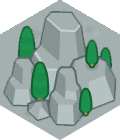
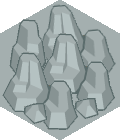
map preview

diff --git a/resources/tsx/landmark_depot.tsx b/resources/tsx/landmark_depot.tsx
@@ -1,4 +1,4 @@
 <?xml version="1.0" encoding="UTF-8"?>
 <tileset version="1.4" tiledversion="1.4.3" name="landmark_depot" tilewidth="120" tileheight="140" tilecount="1" columns="1">
- <image source="../landmark/depot.png" width="120" height="140"/>
+ <image source="../landmark/supply.png" width="120" height="140"/>
 </tileset>

diff --git a/src/map_generate_preview.py b/src/map_generate_preview.py
@@ -1,0 +1,151 @@
+from os import listdir, path
+from json import load
+from inquirer import List, prompt
+from PIL import Image, ImageFont, ImageDraw
+
+BASE_DIR = path.dirname(path.abspath(__file__))
+ROOT_DIR = path.abspath(path.join(BASE_DIR, ".."))
+MAPS_DIR = path.join(ROOT_DIR, "maps")
+MAPS_DATA_DIR = path.join(ROOT_DIR, "maps_data")
+RESOURCES_DIR = path.join(ROOT_DIR, "resources")
+
+
+class MapPreview:
+
+    def __init__(self, map_id, day):
+        self.map_id = map_id
+        self.day = day
+
+        self.hexagons = []
+        self.cities = []
+
+        self.hexagon_w = 0
+        self.hexagon_h = 0
+        self.pixel_w = 0
+        self.pixel_h = 0
+
+        self.images = {"terrain": {}, "landmark": {}, "river": []}
+
+        self.river_map = [
+            [False, False, False, False, False, False],
+            [True, False, False, False, False, False],
+            [False, True, False, False, False, False],
+            [False, False, True, False, False, False],
+            [True, True, False, False, False, False],
+            [True, False, True, False, False, False],
+            [False, True, True, False, False, False],
+            [True, True, True, False, False, False],
+        ]
+
+    def load_terrain_images(self):
+        for image_filename in listdir(path.join(RESOURCES_DIR, "terrain")):
+            image = Image.open(
+                path.join(RESOURCES_DIR, "terrain", image_filename)
+            ).convert("RGBA")
+            key = image_filename[:-4]
+            self.images["terrain"][key] = image
+
+        for image_filename in listdir(path.join(RESOURCES_DIR, "landmark")):
+            image = Image.open(
+                path.join(RESOURCES_DIR, "landmark", image_filename)
+            ).convert("RGBA")
+            key = image_filename[:-4]
+            self.images["landmark"][key] = image
+
+        for image_filename in listdir(path.join(RESOURCES_DIR, "river")):
+            image = Image.open(
+                path.join(RESOURCES_DIR, "river", image_filename)
+            ).convert("RGBA")
+            self.images["river"].append(image)
+
+    def load_map_data(self):
+        with open(f"{MAPS_DIR}/{self.map_id}.json", "r") as file:
+            data = load(file)
+        self.hexagons = data["hexagons"]
+        self.cities = data["landmarks"]["city"]
+        self.hexagon_w = data["metadata"]["width"]
+        self.hexagon_h = data["metadata"]["height"]
+        self.pixel_w = self.hexagon_w * 120 + 60
+        self.pixel_h = self.hexagon_h * 107 + 33
+
+    def generate_preview(self):
+
+        canvas = Image.new("RGBA", (self.pixel_w, self.pixel_h), (0, 0, 0, 0))
+
+        draw = ImageDraw.Draw(canvas)
+
+        font = ImageFont.truetype("arial.ttf", 40)
+
+        for hexagon in self.hexagons:
+            ix = hexagon["x"]
+            iy = hexagon["y"]
+            terrain = hexagon["terrain"]
+            landmark = hexagon["landmark"]
+            river = hexagon["river"]
+
+            px = ix * 120 + (iy % 2) * 60
+            py = iy * 107
+
+            river_index = 0
+
+            for i in range(8):
+                if not all(x == y for x, y in zip(river, self.river_map[i])):
+                    continue
+                river_index = i
+                break
+
+            canvas.paste(
+                self.images["terrain"][terrain],
+                (px, py),
+                self.images["terrain"][terrain],
+            )
+
+            if landmark != "default":
+                canvas.paste(
+                    self.images["landmark"][landmark],
+                    (px, py),
+                    self.images["landmark"][landmark],
+                )
+
+            if river_index > 0:
+                canvas.paste(
+                    self.images["river"][river_index],
+                    (px, py),
+                    self.images["river"][river_index],
+                )
+
+        for city in self.cities:
+            ix = city["x"]
+            iy = city["y"]
+            name = city["name"]
+
+            bbox = draw.textbbox((0, 0), name, font=font)
+            text_w = bbox[2] - bbox[0]
+            text_h = bbox[3] - bbox[1]
+
+            px = ix * 120 + (iy % 2) * 60 + 60 - text_w // 2
+            py = iy * 107
+
+            draw.rectangle(
+                (px, py + 80, px + text_w, py + 80 + text_h + 10),
+                fill=(0, 0, 0, 255),
+            )
+            draw.text((px, py + 80), name, fill=(255, 255, 255, 255), font=font)
+
+        canvas.save(path.join(MAPS_DATA_DIR, self.map_id, "preview.png"))
+
+
+def run():
+
+    values = prompt(
+        [
+            List("map_id", "map", listdir(MAPS_DATA_DIR)),
+        ]
+    )
+
+    map_id = values["map_id"]
+
+    map_preview = MapPreview(map_id, 0)
+    map_preview.load_terrain_images()
+    map_preview.load_map_data()
+    map_preview.generate_preview()

diff --git a/main.py b/main.py
@@ -4,13 +4,15 @@ from src.map_size_calc import run as map_size_calc
 from src.map_landmarks_template_generator import run as map_landmarks_template_generator
 from src.map_upload import run as map_upload
 from src.map_new import run as map_new
+from src.map_generate_preview import run as map_generate_preview
 
 commands = {
     "Compile Map": map_compile,
     "Calculate Map Size": map_size_calc,
     "Generate Map Landmarks Template": map_landmarks_template_generator,
     "Upload Map To Server": map_upload,
-    "Create new Map": map_new,
+    "Create New Map": map_new,
+    "Generate Map Preview": map_generate_preview,
 }
 
 if __name__ == "__main__":

diff --git a/README.md b/README.md
@@ -131,7 +131,7 @@ Follow these steps to create, edit, and publish a map:
 
 4. **Place landmarks**
 
-   * Cities, oilfields, depots, etc.
+   * Cities, oilfields, supply depots, etc.
    * After placing landmarks, run:
 
      ```bash
